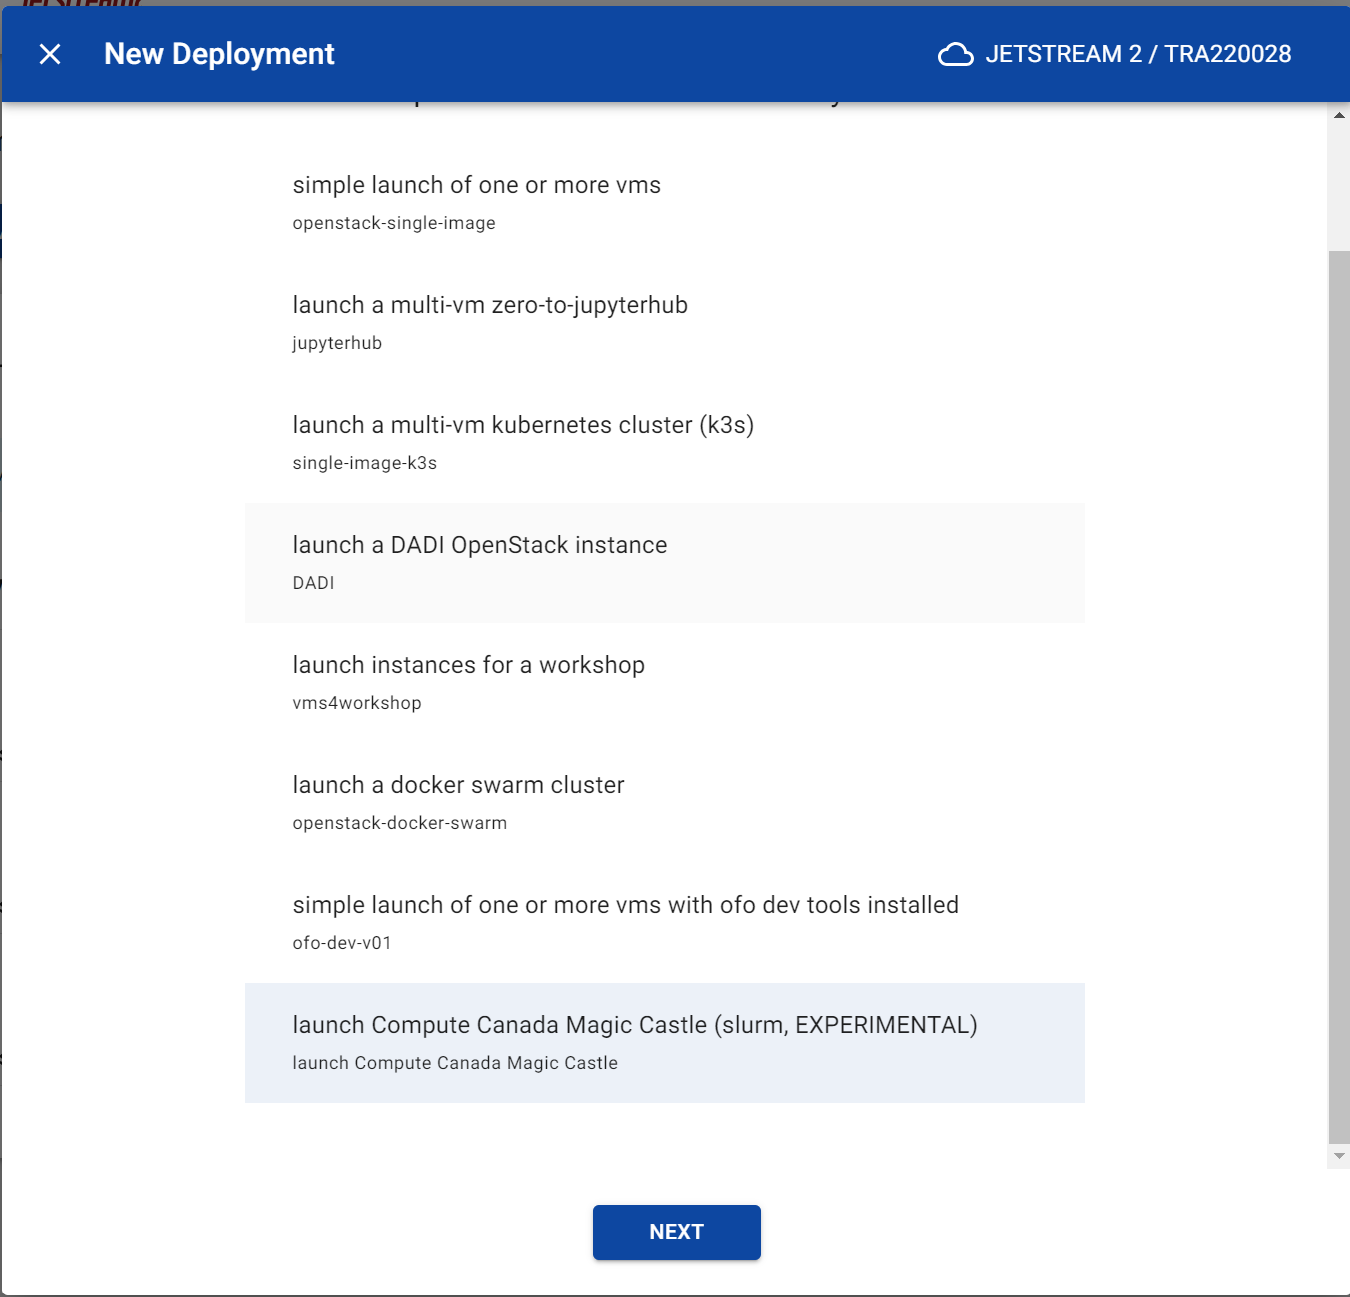
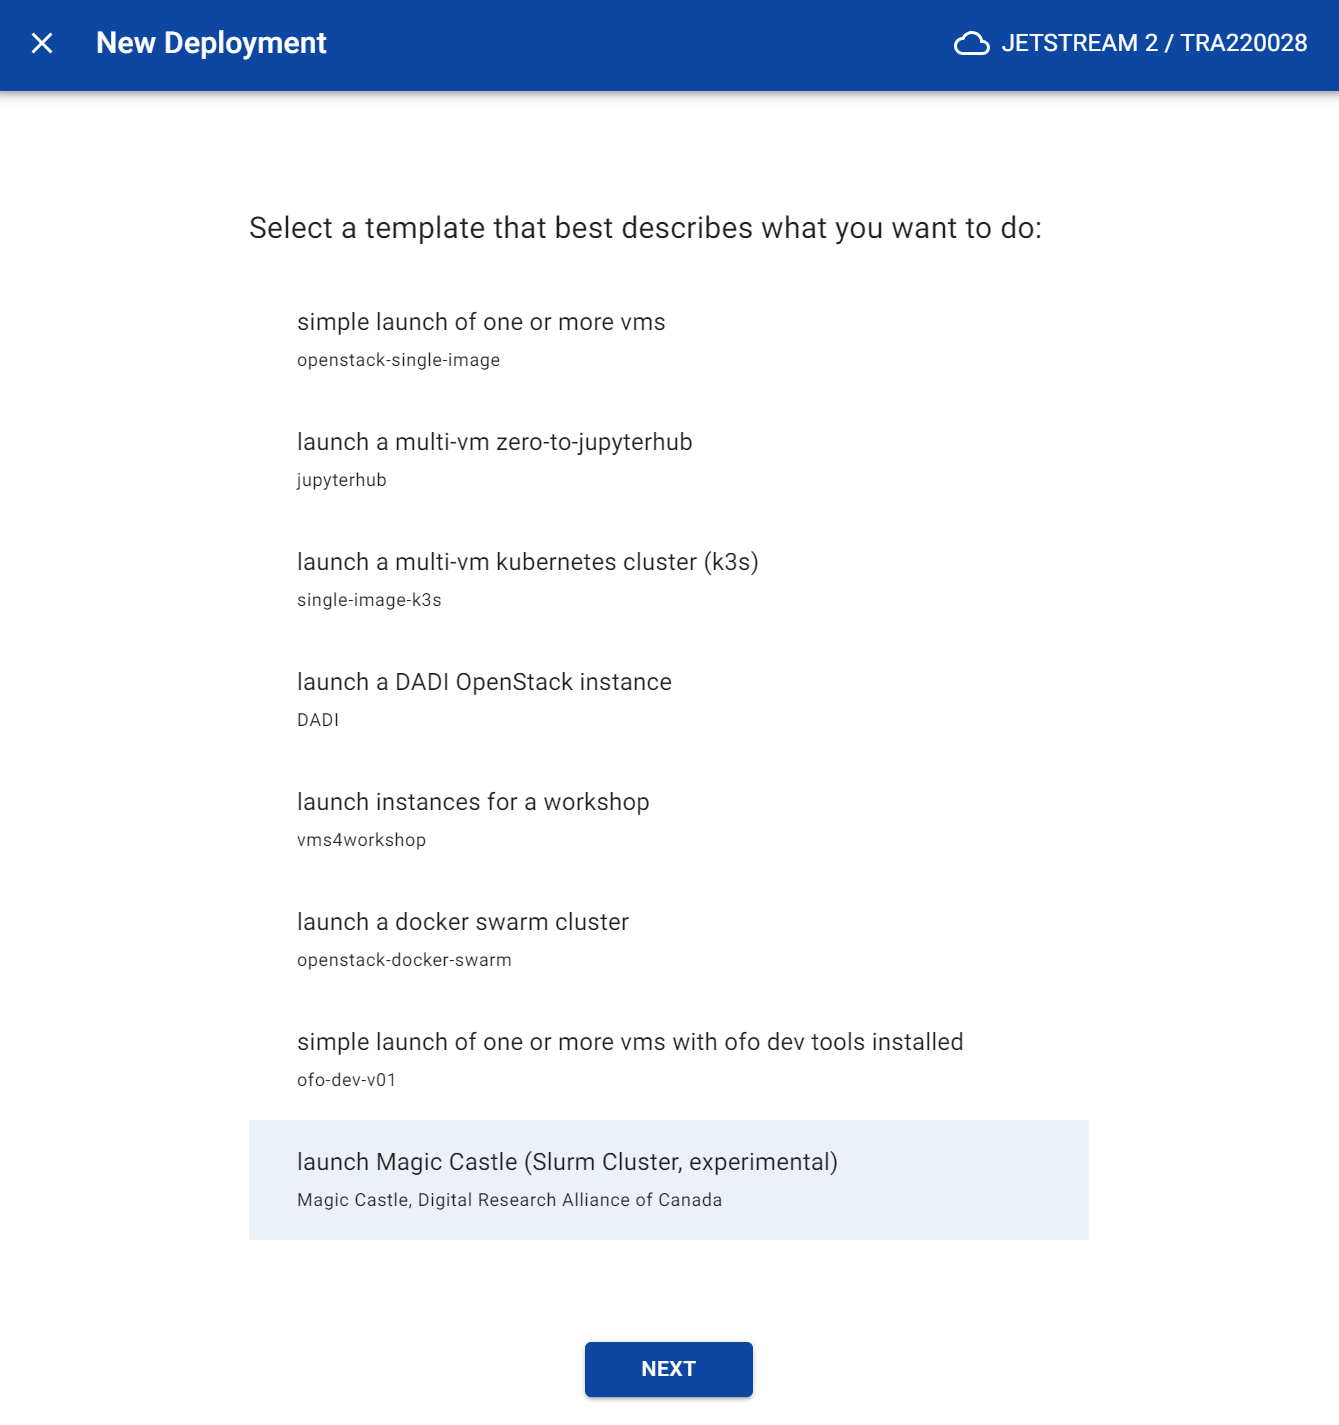
update images and grammatical errors

diff --git a/docs/ui/cacao/deployment_magic_castle.md b/docs/ui/cacao/deployment_magic_castle.md
@@ -4,12 +4,12 @@
 
 ## Pre-requisites
 
-You will need to setup your the following before you deploy any cloud resource using CACAO:
+You will need to setup the following before you deploy any cloud resource using CACAO:
 
 - Jetstream cloud credentials (aka application credential)
 - your public ssh key
 
-Instructions on installing your first Jetstream cloud credential and adding  in CACAO can be found [here](https://docs.jetstream-cloud.org/ui/cacao/credentials/).
+Instructions on installing your first Jetstream cloud credential and adding ssh key in CACAO can be found [here](https://docs.jetstream-cloud.org/ui/cacao/credentials/).
 
 Magic Castle requires several OpenStack resources, which may impact your quota limits. Here is a summary on minimum resources:
 
@@ -26,7 +26,7 @@ Magic Castle requires several OpenStack resources, which may impact your quota l
 - 8 security rules
 - 80 GB of volume storage
 
-See [this page for more information on this limits](https://github.com/ComputeCanada/magic_castle/tree/main/docs#144-openstack). You may need to request a quota increase from Jetstream2 staff if you do not have enough quota.
+See [this page for more information on these limits](https://github.com/ComputeCanada/magic_castle/tree/main/docs#144-openstack). You may need to request a quota increase from Jetstream2 staff if you do not have enough quota.
 
 ## Instructions
 
@@ -44,24 +44,29 @@ The steps below will guide you through the process of deploying a Magic Castle (
     1. Choose your Region
     2. Give a Cluster Name
     3. Select a Boot Image
-    ***_NOTE:_*** You must select either AlmaLinux 8/9 or Rocky 8/9 image
+    !!! Note
+        You must select either AlmaLinux 8/9 or Rocky 8/9 image
+
     4. Management Nodes: select the number and size of your management node(s)
-    5. Login Nodes: select the number and size of your login nodes  
+    5. Login Nodes: select the number and size of your login node(s)
     6. Worker Nodes: select the number and size of your compute nodes
     7. Select the number of guest users
-    ***_NOTE:*** Guest users will be named `user1`, `user2`, etc
-    8. Enter a guest user shared password
-    ***_Note:*** All guest users will use the same password. If left blank, a random password will be generated (see below)
+    !!! Note
+        Guest users will be named `user1`, `user2`, etc
+
+    8. Enter a guest user shared password or leave blank to generate a random password
+    !!! Note
+        All guest users will use the same password. The usernames and password will be repeated in the `accounts.txt` file (see below)
 
 ![magic castle parameters](images/deployments/magic_castle/mdw_magic_castle.png){ width="50%" }
 
 7. Click the Next button
 8. After reviewing the parameters, click the "Submit" button
-9. Get a cup of coffee and wait for the deployment to complete. You can monitor the progress of the deployment in the "Deployments" menu.
+9. Get a cup of coffee and wait for the deployment to be "Active". You can monitor the progress of the deployment in the "Deployments" menu.
 
 ## Accessing your Magic Castle Cluster as the "Sudo" user
 
-When your cluster is ready, you have two options to access the cluster as an "sudo" user, the account with elevated privileges.
+When your Magic Castle deployment is "Active", you have two options to access the cluster as an "sudo" user, the account with elevated privileges.
 
 ### Option 1: Web Shell
 
@@ -74,17 +79,20 @@ When your cluster is ready, you have two options to access the cluster as an "su
 
 1. In the Deployments list, click on your deployment
 2. Copy the public ip address for the login node (see image)
-3. Using an external ssh client loading with the private key that matches one of the public keys uploaded to CACAO, goto: `<username>@<public-ip-address>`. For example, if your access ci identity is `wildcat@access-ci.org` and the public ip is 1.2.3.4, then your ssh login to the login node will be `wildcat@1.2.3.4`.
+3. Using an external ssh client with access to your private key that is associated with a public key imported into CACAO, goto: `<username>@<public-ip-address>`. For example, if your access ci identity (and cacao username) is `wildcat@access-ci.org` and the public ip is `1.2.3.4`, then your ssh login to the login node will be `wildcat@1.2.3.4`.
+
 ![magic castle public ip](images/deployments/magic_castle/mc-details-with-public-ip.png){ width="50%" }
 
 ## Verifying that your Magic Castle Cluster is ready to use
 
-1. When you web shell or ssh into your Magic Castle Cluster login node, you should see a message similar to screenshot below.
+1. When you web shell or ssh into your Magic Castle cluster login node, you should see a message similar to screenshot below.
+
 ![magic castle terminal](images/deployments/magic_castle/mc_terminal.png){ width="50%" }
+
 2. You should see the following information:
-    1. The current status of your Magic Castle cluster. It should be "Ready" when ready.
-    2. The command if you need to re-check the Magic Castle Cluster, `mccheck`.
-    3. The path to the `accounts.txt file that contains both the number of guest users and shared guest user password.
+    1. The current state of your Magic Castle cluster. The state should be "Ready" when ready, and "Not Ready" when not.
+    2. The cli command to re-check the Magic Castle Cluster: `mccheck`.
+    3. The path to the `accounts.txt` file that contains both the number of guest users and the shared guest user password.
 
 ## Giving access to your Guest Users
 
